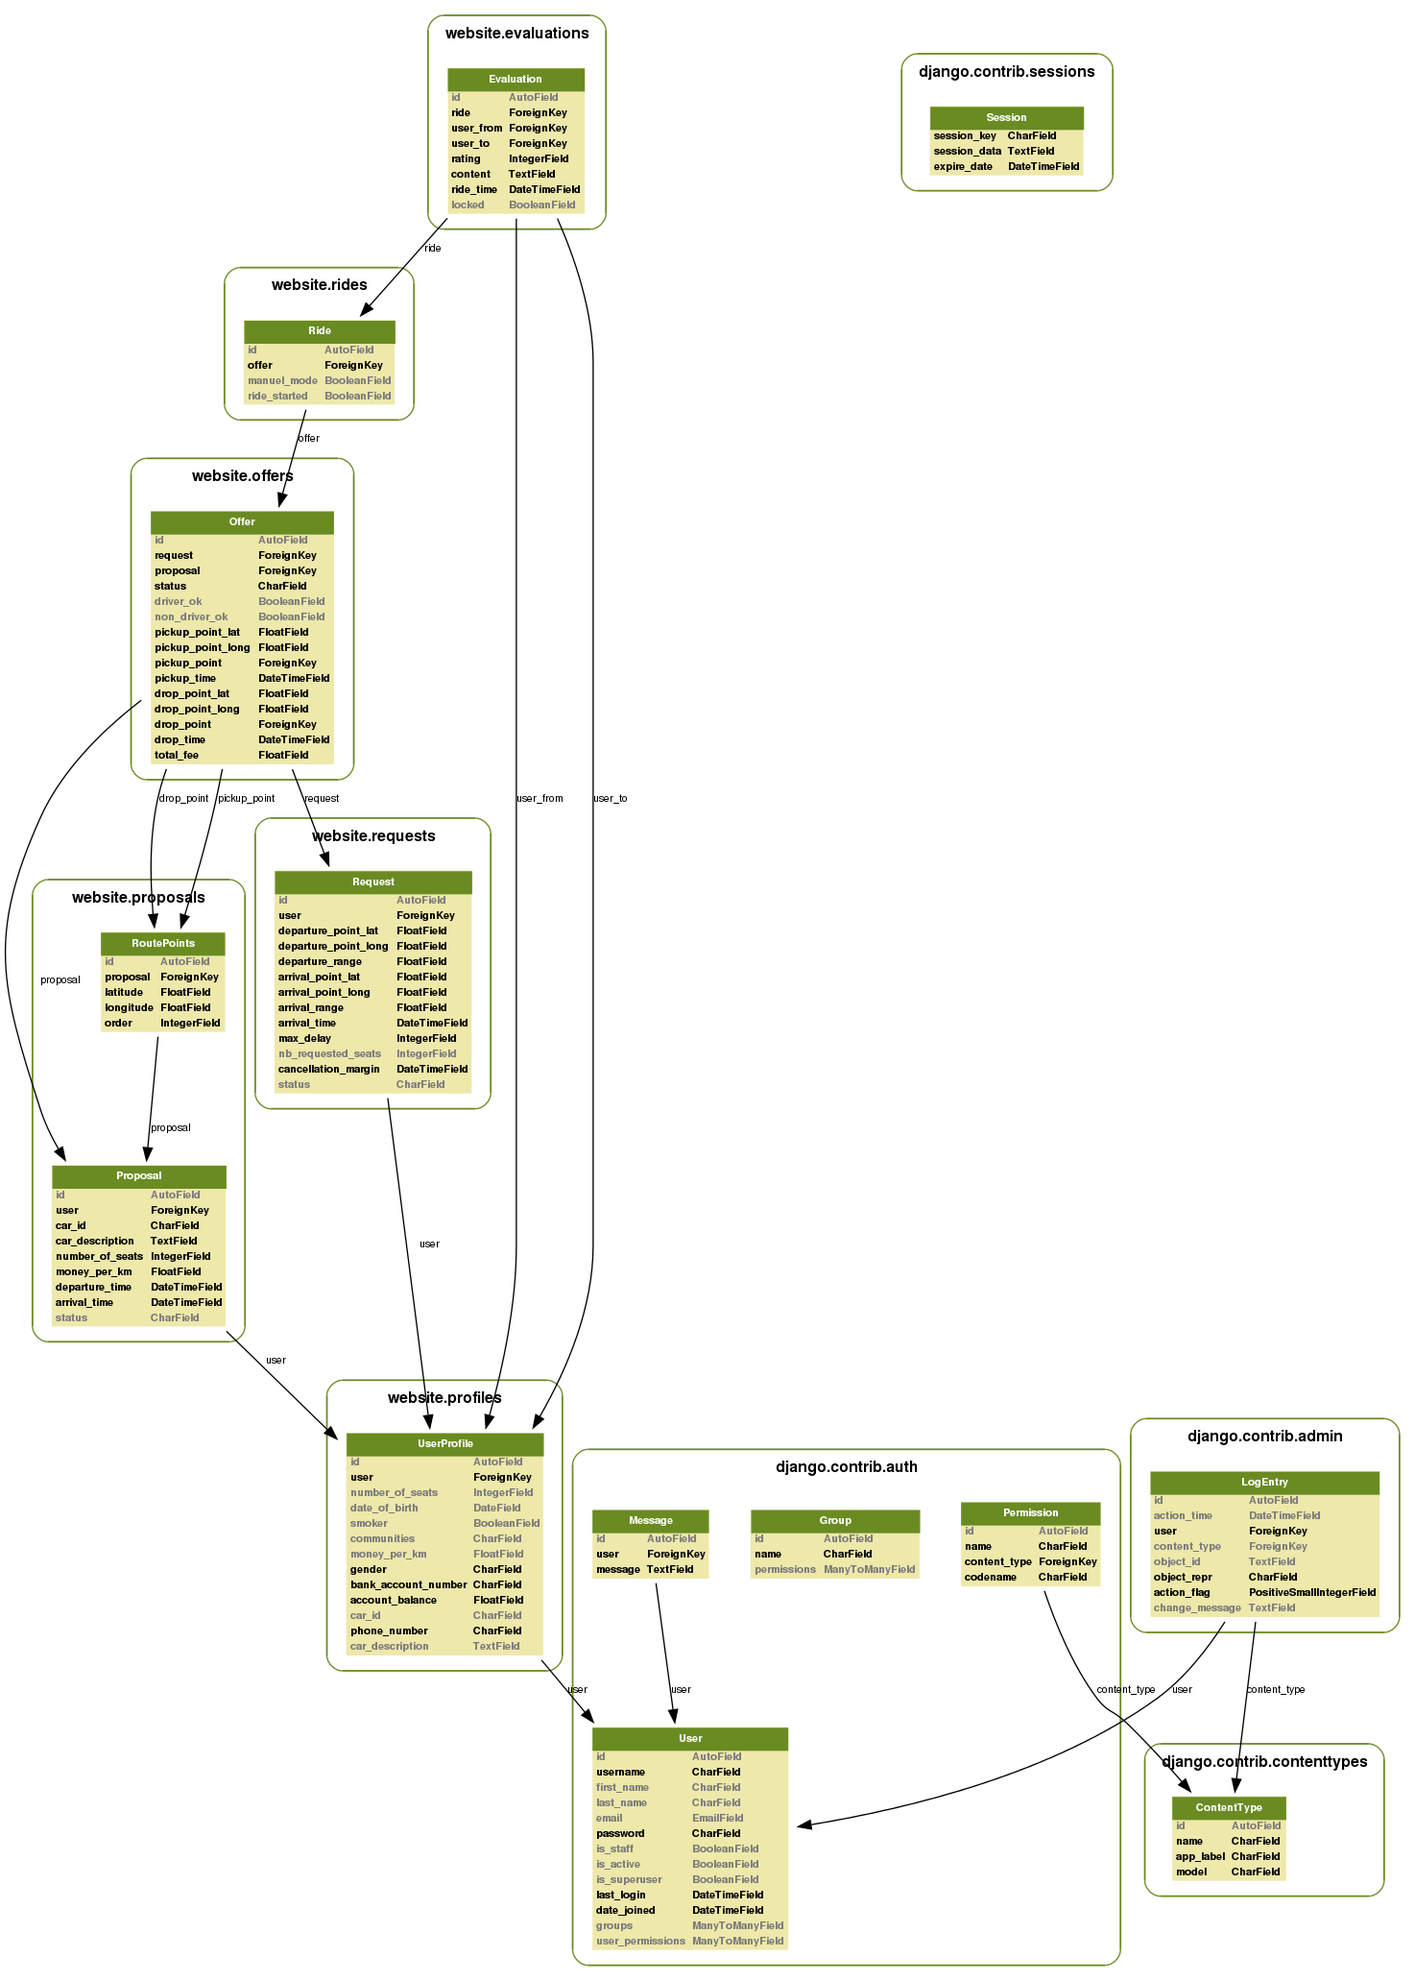
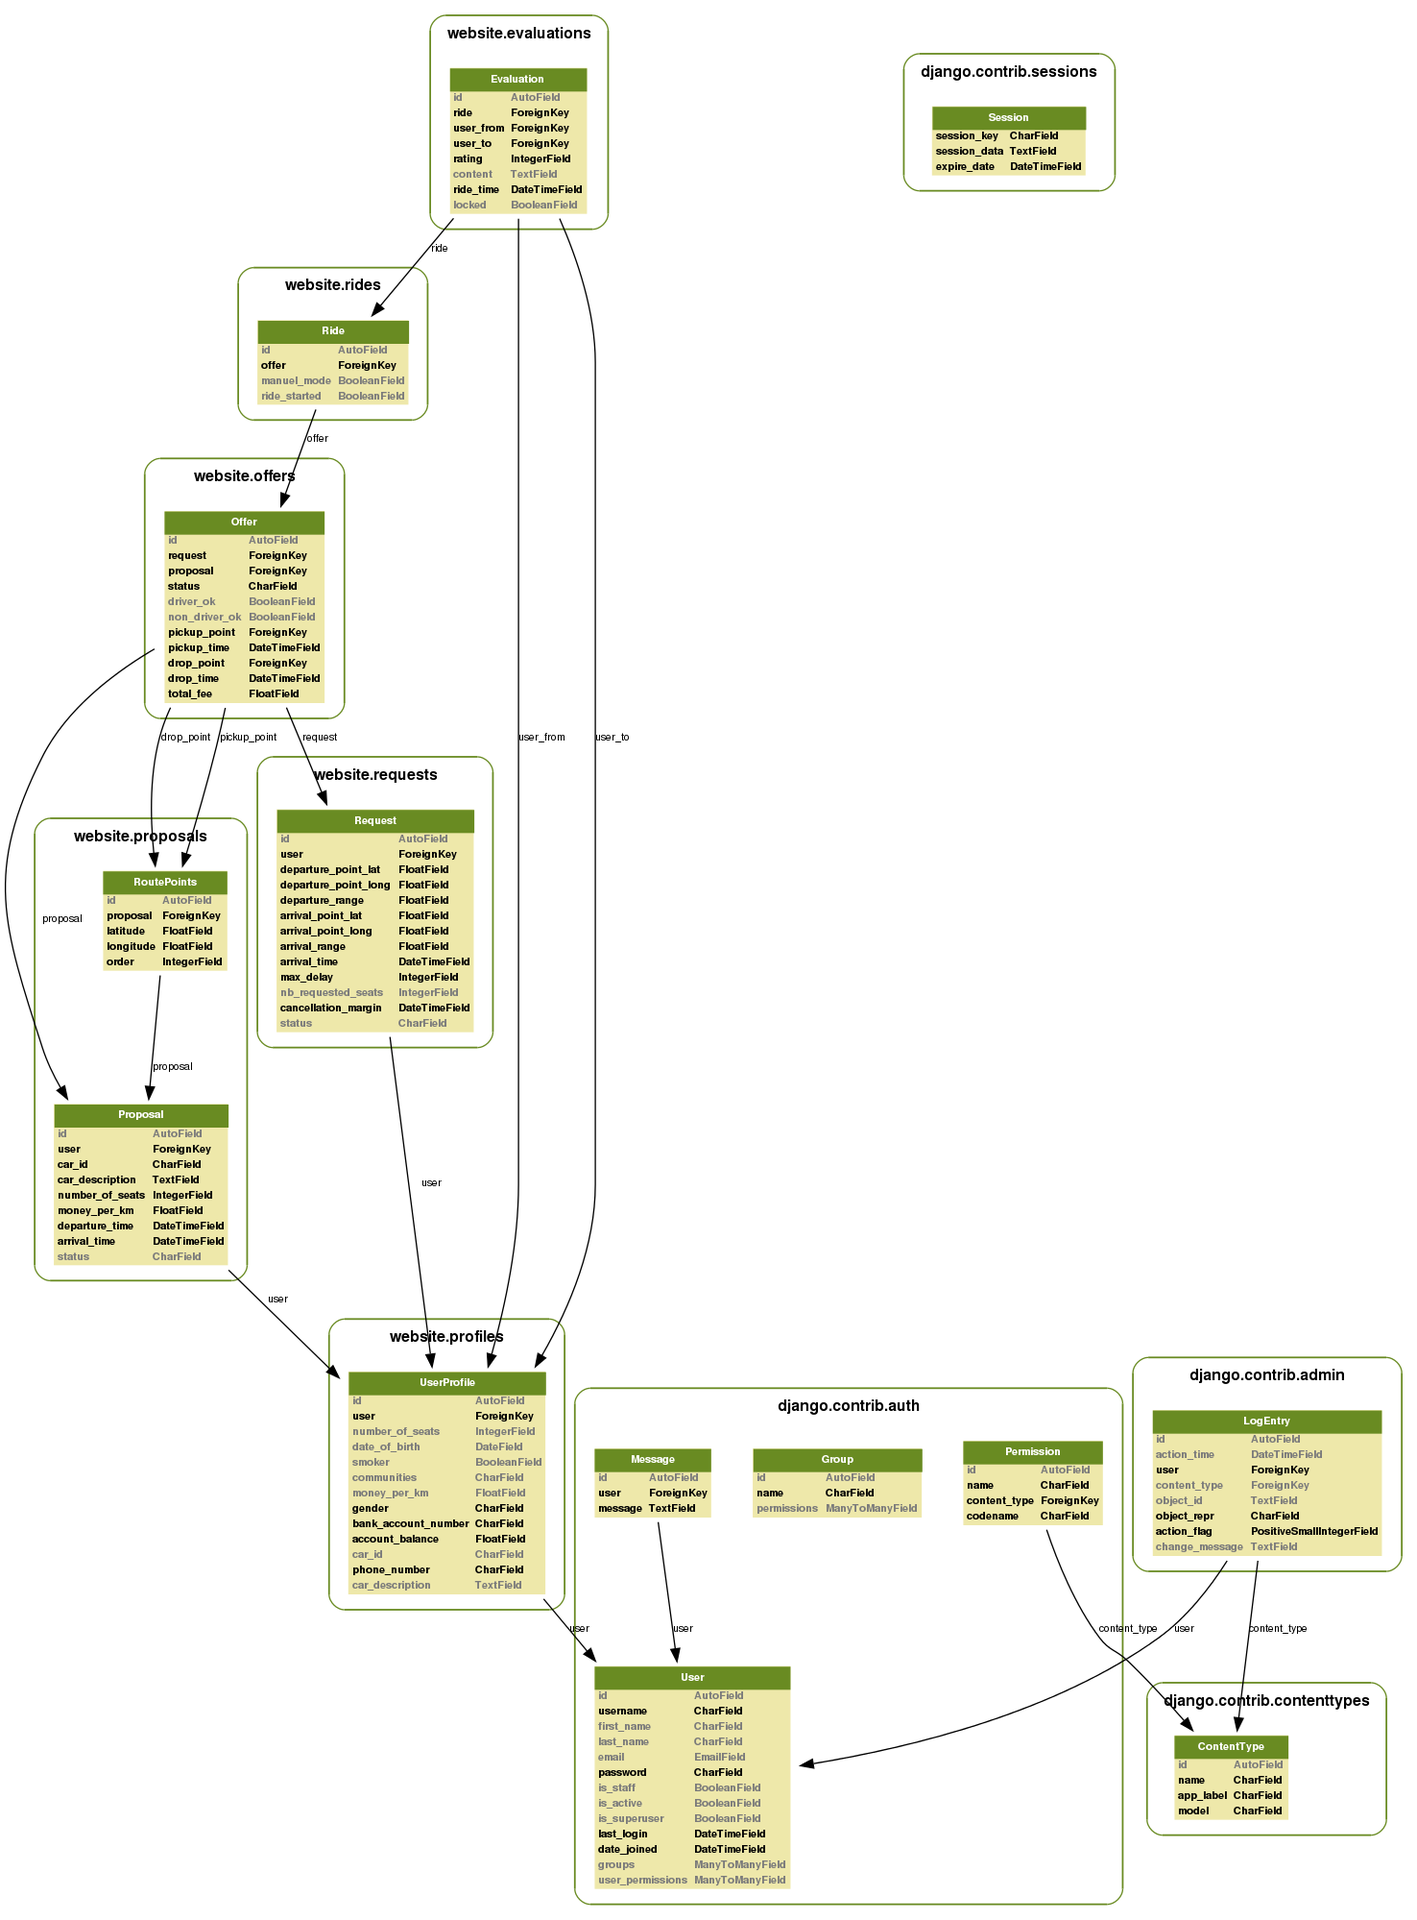
without point_lat/long

diff --git a/website/templates/publicprofile.html b/website/templates/publicprofile.html
@@ -34,7 +34,7 @@ Profile
         {% endfor %}
         
         <hr>
-        <span style="text-weight:bold;font-size:1.1em;">Evaluations for the rides for which you were a passenger</span>
+        <span style="text-weight:bold;font-size:1.1em;">Evaluations for the rides for which {{other.user.first_name}} was a passenger</span>
         <br/>
         {% for evaluation in evaluation_l %}
             {% if evaluation.ride.offer.request.user == other %}

diff --git a/website/offers/views.py b/website/offers/views.py
@@ -45,9 +45,9 @@ def myoffers(request, global_address_cache=None):
                 index_pickup = 0
                 index_drop = 0
                 for i in xrange(len(route_points)):
-                    if route_points[i].latitude == of.pickup_point_lat and route_points[i].longitude == of.pickup_point_long:
+                    if route_points[i].latitude == of.pickup_point.latitude and route_points[i].longitude == of.pickup_point.longitude:
                         index_pickup = i
-                    if route_points[i].latitude == of.drop_point_lat and route_points[i].longitude == of.drop_point_long:
+                    if route_points[i].latitude == of.drop_point.latitude and route_points[i].longitude == of.drop_point.longitude:
                         index_drop = i
                 
                 date_pick = utils.get_time_at_point([(el.latitude,el.longitude) for el in route_points],
@@ -55,14 +55,15 @@ def myoffers(request, global_address_cache=None):
                                                 of.proposal.departure_time,
                                                 of.proposal.arrival_time)
                 
+                
                 date_drop = utils.get_time_at_point([(el.latitude,el.longitude) for el in route_points],
                                                 index_drop,
                                                 of.proposal.departure_time,
                                                 of.proposal.arrival_time)
                 
                 
-                pick_point = global_address_cache.get_address((of.pickup_point_lat,of.pickup_point_long))
-                drop_point = global_address_cache.get_address((of.drop_point_lat,of.drop_point_long))
+                pick_point = global_address_cache.get_address((of.pickup_point.latitude,of.pickup_point.longitude))
+                drop_point = global_address_cache.get_address((of.drop_point.latitude,of.drop_point.longitude))
                 infos = {
                     'driver':True, 'status':of.driver_ok, 'other':of.request.user,
                     'date_pick':date_pick, 'pick_point': pick_point,
@@ -89,9 +90,9 @@ def myoffers(request, global_address_cache=None):
                 index_pickup = 0
                 index_drop = 0
                 for i in xrange(len(route_points)):
-                    if route_points[i].latitude == of.pickup_point_lat and route_points[i].longitude == of.pickup_point_long:
+                    if route_points[i].latitude == of.pickup_point.latitude and route_points[i].longitude == of.pickup_point.longitude:
                         index_pickup = i
-                    if route_points[i].latitude == of.drop_point_lat and route_points[i].longitude == of.drop_point_long:
+                    if route_points[i].latitude == of.drop_point.latitude and route_points[i].longitude == of.drop_point.longitude:
                         index_drop = i
                 
                 
@@ -105,8 +106,8 @@ def myoffers(request, global_address_cache=None):
                                                 of.proposal.departure_time,
                                                 of.proposal.arrival_time)
                 
-                pick_point = global_address_cache.get_address((of.pickup_point_lat,of.pickup_point_long))
-                drop_point = global_address_cache.get_address((of.drop_point_lat,of.drop_point_long))
+                pick_point = global_address_cache.get_address((of.pickup_point.latitude, of.pickup_point.longitude))
+                drop_point = global_address_cache.get_address((of.drop_point.latitude, of.drop_point.longitude))
 
                 infos = {
                     'driver':False, 'status':of.non_driver_ok, 'other':of.proposal.user,

diff --git a/website/modules/findpair.py b/website/modules/findpair.py
@@ -75,7 +75,8 @@ class FindPair(PortObject):
                                         route_points[i].longitude,
                                         get_time_at_point([(r.latitude,r.longitude) for r in route_points], 
                                                             i,
-                                                            infos.departure_time,infos.arrival_time),
+                                                            infos.departure_time,
+                                                            infos.arrival_time),
                                         route_points[i].id
                                      ),
                                      (
@@ -108,13 +109,33 @@ class FindPair(PortObject):
             valid_pair = list()
             for i in xrange(len(route_points)-1):
                 if get_distance((request.departure_point_lat,request.departure_point_long),(route_points[i].latitude,route_points[i].longitude))<request.departure_range:
+                
                     for j in range(i+1,len(route_points)):
                         if get_distance((request.arrival_point_lat,request.arrival_point_long),(route_points[j].latitude,route_points[j].longitude))<request.arrival_range:
                             valid_pair.append((i,j))
+                            
             for (i,j) in valid_pair:
                 #delete all not in time arrival
                 if total_seconds(abs(get_time_at_point([(r.latitude,r.longitude) for r in route_points],j,infos.departure_time,infos.arrival_time)-request.arrival_time)) < request.max_delay:
-                    self.send_to(self.offermanager_port,('buildoffer',requestID,infos.id,(route_points[i].latitude,route_points[i].longitude,get_time_at_point([(r.latitude,r.longitude) for r in route_points],i,infos.departure_time,infos.arrival_time),route_points[i].id),(route_points[j].latitude,route_points[j].longitude,get_time_at_point([(r.latitude,r.longitude) for r in route_points],j,infos.departure_time,infos.arrival_time),route_points[j].id)))
+                    self.send_to(self.offermanager_port,('buildoffer',
+                                                          requestID,
+                                                          infos.id,
+                                                          ( route_points[i].latitude,
+                                                            route_points[i].longitude,
+                                                            get_time_at_point([(r.latitude,r.longitude) for r in route_points],
+                                                                              i,
+                                                                              infos.departure_time,infos.arrival_time),
+                                                            route_points[i].id
+                                                          ),
+                                                          ( route_points[j].latitude,
+                                                            route_points[j].longitude,
+                                                            get_time_at_point([(r.latitude,r.longitude) for r in route_points],
+                                                                              j,
+                                                                              infos.departure_time,
+                                                                              infos.arrival_time),
+                                                            route_points[j].id
+                                                          )
+                                                      ))
 
 
               

diff --git a/website/rides/views.py b/website/rides/views.py
@@ -49,9 +49,9 @@ def myrides(request, global_address_cache=None):
                 index_pickup = 0
                 index_drop = 0
                 for i in xrange(len(route_points)):
-                    if route_points[i].latitude == of.pickup_point_lat and route_points[i].longitude == of.pickup_point_long:
+                    if route_points[i].latitude == of.pickup_point.latitude and route_points[i].longitude == of.pickup_point.longitude:
                         index_pickup = i
-                    if route_points[i].latitude == of.drop_point_lat and route_points[i].longitude == of.drop_point_long:
+                    if route_points[i].latitude == of.drop_point.latitude and route_points[i].longitude == of.drop_point.longitude:
                         index_drop = i
                 
                 date_pick = utils.get_time_at_point([(el.latitude,el.longitude) for el in route_points],
@@ -65,8 +65,8 @@ def myrides(request, global_address_cache=None):
                                                 of.proposal.arrival_time)
                 
                 
-                pick_point = global_address_cache.get_address((of.pickup_point_lat, of.pickup_point_long))
-                drop_point = global_address_cache.get_address((of.drop_point_lat, of.drop_point_long))
+                pick_point = global_address_cache.get_address((of.pickup_point.latitude, of.pickup_point.longitude))
+                drop_point = global_address_cache.get_address((of.drop_point.latitude, of.drop_point.longitude))
                 
                 infos = {
                     'driver':True, 'other':of.request.user,
@@ -98,9 +98,9 @@ def myrides(request, global_address_cache=None):
                 index_pickup = 0
                 index_drop = 0
                 for i in xrange(len(route_points)):
-                    if route_points[i].latitude == of.pickup_point_lat and route_points[i].longitude == of.pickup_point_long:
+                    if route_points[i].latitude == of.pickup_point.latitude and route_points[i].longitude == of.pickup_point.longitude:
                         index_pickup = i
-                    if route_points[i].latitude == of.drop_point_lat and route_points[i].longitude == of.drop_point_long:
+                    if route_points[i].latitude == of.drop_point.latitude and route_points[i].longitude == of.drop_point.longitude:
                         index_drop = i
                 
                 
@@ -114,8 +114,8 @@ def myrides(request, global_address_cache=None):
                                                 of.proposal.departure_time,
                                                 of.proposal.arrival_time)
                 
-                pick_point = global_address_cache.get_address((of.pickup_point_lat,of.pickup_point_long))
-                drop_point = global_address_cache.get_address((of.drop_point_lat,of.drop_point_long))
+                pick_point = global_address_cache.get_address((of.pickup_point.latitude,of.pickup_point.longitude))
+                drop_point = global_address_cache.get_address((of.drop_point.latitude,of.drop_point.longitude))
                 
                 infos = {
                     'driver':False, 'other':of.proposal.user,

diff --git a/website/Fulfil.py b/website/Fulfil.py
@@ -54,9 +54,9 @@ def match_proposal(propID):
             route_points = RoutePoints.objects.filter(proposal=infos).order_by('order')
             valid_pair = list()
             for i in xrange(len(route_points)-2):
-                if get_distance((request.departure_point_lat,request.departure_point_long),(route_points[i].latitude,route_points[i].longitude))<request.departure_range:
+                if get_distance((request.departure_point.latitude,request.departure_point.longitude),(route_points[i].latitude,route_points[i].longitude))<request.departure_range:
                     for j in range(i+1,len(route_points)):
-                        if get_distance((request.arrival_point_lat,request.arrival_point_long),(route_points[j].latitude,route_points[j].longitude))<request.arrival_range:
+                        if get_distance((request.arrival_point.latitude,request.arrival_point.longitude),(route_points[j].latitude,route_points[j].longitude))<request.arrival_range:
                             valid_pair.append((i,j))
             for (i,j) in valid_pair:
                     #delete all not in time arrival
@@ -101,11 +101,7 @@ def build_offer(requestID,proposalID,departure,arrival):
     offer.status='P'
     offer.driver_ok=False
     offer.non_driver_ok=False
-    offer.pickup_point_lat=departure[0]
-    offer.pickup_point_long=departure[1]
     offer.pickup_time = departure[2]
-    offer.drop_point_lat=arrival[0]
-    offer.drop_point_long=arrival[1]
     offer.drop_time = arrival[2]
     offer.pickup_point = RoutePoints.objects.get(id=departure[3])
     offer.drop_point = RoutePoints.objects.get(id=arrival[3])
@@ -131,9 +127,9 @@ def match_request(requestID):
         route_points = RoutePoints.objects.filter(proposal=infos).order_by('order')
         valid_pair = list()
         for i in xrange(len(route_points)-2):
-            if get_distance((request.departure_point_lat,request.departure_point_long),(route_points[i].latitude,route_points[i].longitude))<request.departure_range:
+            if get_distance((request.departure_point.latitude,request.departure_point.longitude),(route_points[i].latitude,route_points[i].longitude))<request.departure_range:
                 for j in range(i+1,len(route_points)):
-                    if get_distance((request.arrival_point_lat,request.arrival_point_long),(route_points[j].latitude,route_points[j].longitude))<request.arrival_range:
+                    if get_distance((request.arrival_point.latitude,request.arrival_point.longitude),(route_points[j].latitude,route_points[j].longitude))<request.arrival_range:
                         valid_pair.append((i,j))
         for (i,j) in valid_pair:
             #delete all not in time arrival

diff --git a/website/modules/offermanager.py b/website/modules/offermanager.py
@@ -67,11 +67,7 @@ class OfferManager(PortObject):
         offer.status='P'
         offer.driver_ok=False
         offer.non_driver_ok=False
-        offer.pickup_point_lat=departure[0]
-        offer.pickup_point_long=departure[1]
         offer.pickup_time = departure[2]
-        offer.drop_point_lat=arrival[0]
-        offer.drop_point_long=arrival[1]
         offer.drop_time = arrival[2]
         offer.pickup_point = RoutePoints.objects.get(id=departure[3])
         offer.drop_point = RoutePoints.objects.get(id=arrival[3])
@@ -180,7 +176,7 @@ class OfferManager(PortObject):
                     offer.save()
                     print "accepted"
                     self.send_to(self.rideManager, ('newacceptedride', offer.id))
-                    threading.Thread(target=lambda:callb_ok('The ride has been confirmed.')).start()
+                    threading.Thread(target=lambda:callb_ok).start()
                     
             else:
                 account = offer.request.user.account_balance-offer.total_fee
@@ -206,7 +202,7 @@ class OfferManager(PortObject):
                     offer.save()
                     print "accepted"
                     self.send_to(self.rideManager, ('newacceptedride', offer.id))
-                    threading.Thread(target=lambda:callb_ok('The ride has been confirmed.')).start()
+                    threading.Thread(target=lambda:callb_ok).start()
                 threading.Thread(target=callb_ok).start()
 
     def cancel_proposal(self,proposalID):

diff --git a/website/offers/models.py b/website/offers/models.py
@@ -14,12 +14,8 @@ class Offer(models.Model):
     status = models.CharField(max_length=1, choices=STATUS_CHOICES, default='P')
     driver_ok = models.BooleanField(default=False)
     non_driver_ok = models.BooleanField(default=False)
-    pickup_point_lat = models.FloatField()
-    pickup_point_long = models.FloatField()
     pickup_point = models.ForeignKey('proposals.RoutePoints', related_name='pick_point_set')
     pickup_time = models.DateTimeField()
-    drop_point_lat = models.FloatField()
-    drop_point_long = models.FloatField()
     drop_point = models.ForeignKey('proposals.RoutePoints', related_name='drop_point_set')
     drop_time = models.DateTimeField()
     total_fee = models.FloatField()

diff --git a/website/views.py b/website/views.py
@@ -45,7 +45,7 @@ def home(request):
 def logout(request):
     auth.logout(request)
     current_date = datetime.datetime.now()
-    form = LoginForm(initial={'login': 'login'})
+    form = LoginForm()
     notifications = [{'error':False, 'msg':'You are now disconnected'}]
     return render_to_response('home.html', locals())
 

diff --git a/website/modules/utils.py b/website/modules/utils.py
@@ -44,6 +44,7 @@ def get_time_at_point(points,arrindex,deptime,arrtime):
         if index<=arrindex:
             ride_dist+=dist
     return deptime + (arrtime-deptime) * int(ride_dist/total_dist)
-    
+
+
 def total_seconds(td):
     return (td.microseconds + (td.seconds + td.days * 24 * 3600) * 10**6) / 10**6

diff --git a/website/modules/requestrecorder.py b/website/modules/requestrecorder.py
@@ -88,3 +88,4 @@ class RequestRecorder(PortObject):
                 threading.Thread(target = msg[2], args = (msg[4],)).start()
         else:
             print 'RequestRecorder received an unexpected message'
+
